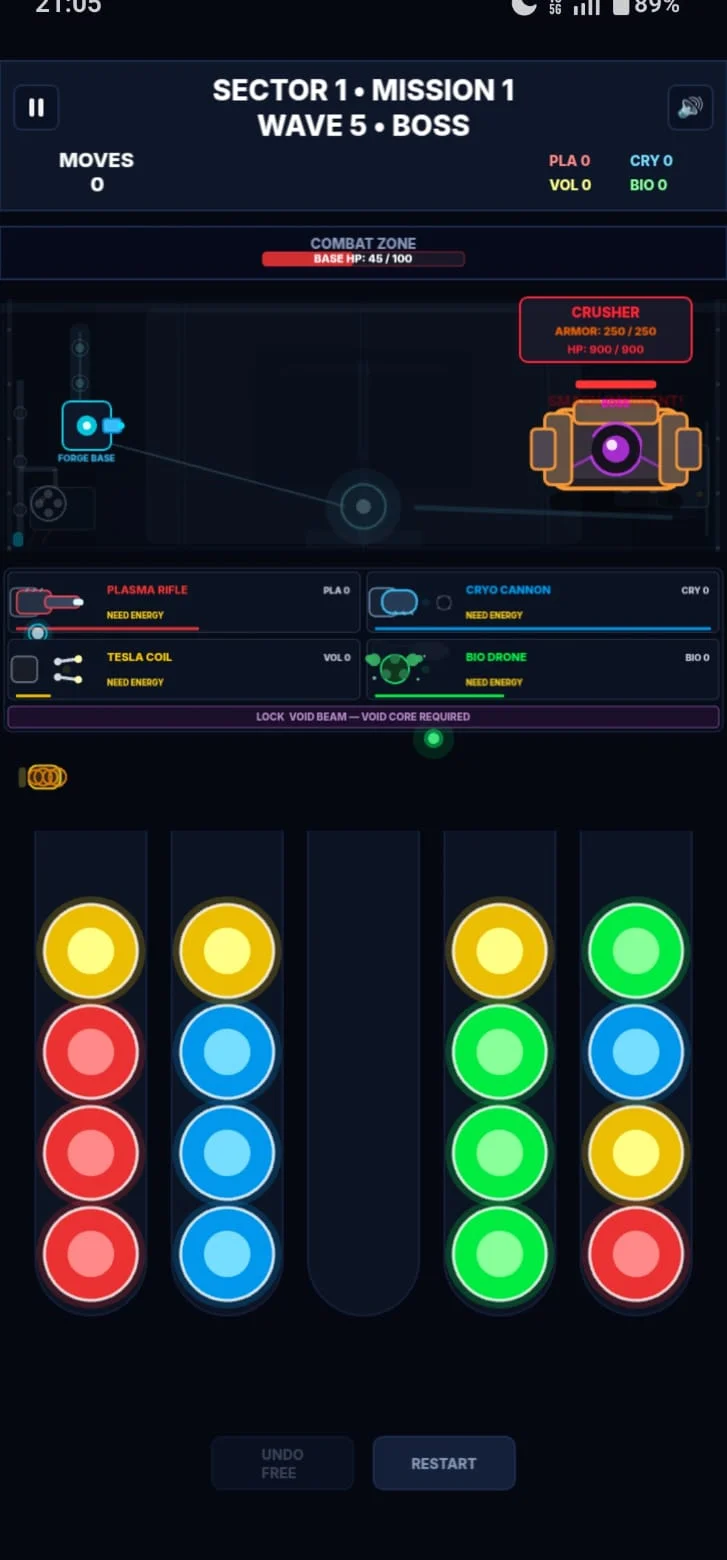
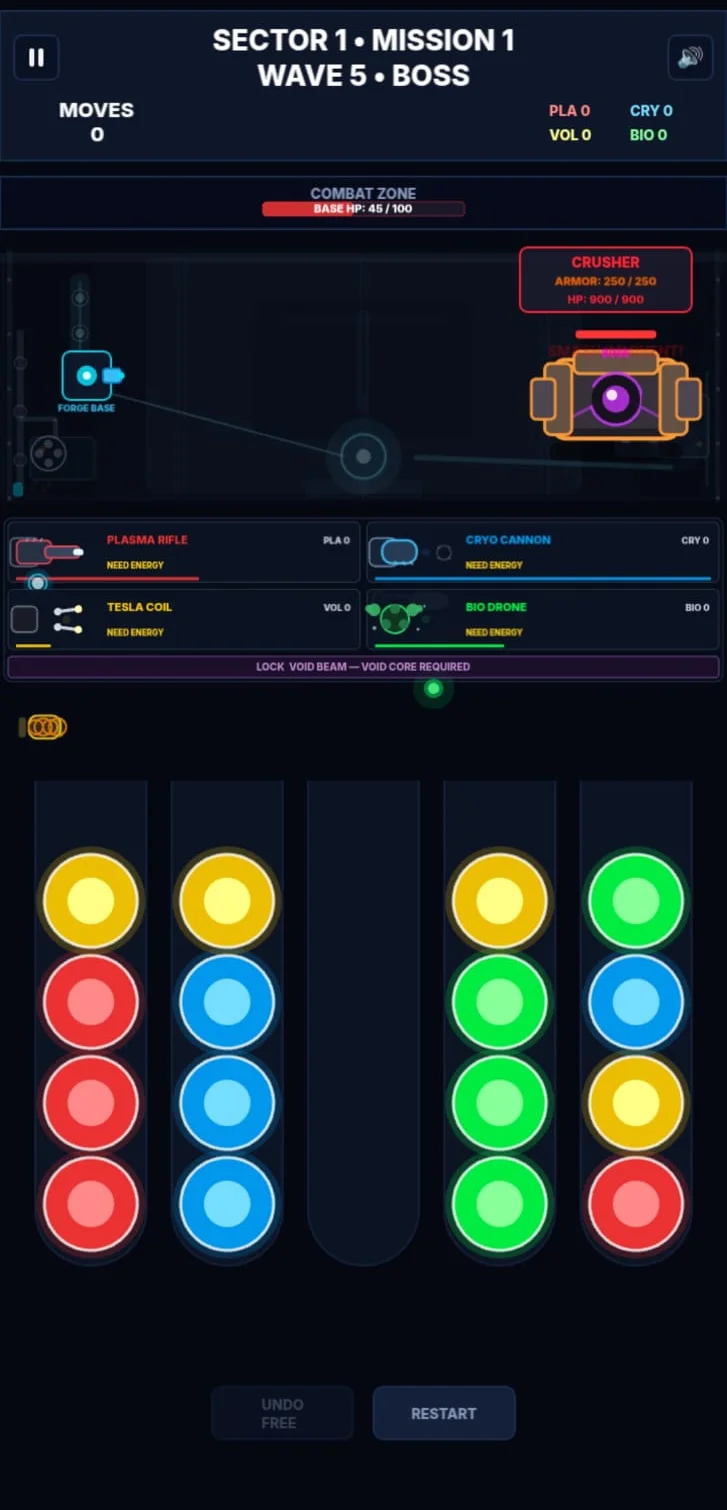
Refine CORE FORGE visual integration (Step 6.3Q)

diff --git a/src/components/games/GameMediaGallery.tsx b/src/components/games/GameMediaGallery.tsx
@@ -1,4 +1,4 @@
-import type { Game } from '../../types/game';
+import type { Game, GameMediaImage } from '../../types/game';
 import Container from '../common/Container';
 import Reveal from '../common/Reveal';
 import './GameMediaGallery.css';
@@ -8,45 +8,56 @@ interface GameMediaGalleryProps {
 }
 
 export default function GameMediaGallery({ game }: GameMediaGalleryProps) {
-  // Gracefully omit section if there's no authentic media
   if (!game.media.screenshots || game.media.screenshots.length === 0) {
     return null;
   }
 
+  // Group screenshots by category
+  const groups: Record<string, GameMediaImage[]> = {};
+  game.media.screenshots.forEach(screenshot => {
+    const cat = screenshot.category || 'GAMEPLAY';
+    if (!groups[cat]) groups[cat] = [];
+    groups[cat].push(screenshot);
+  });
+
   return (
     <section className="game-media-gallery">
       <Container>
-        <div className="game-media-gallery-header">
-          <span className="game-media-gallery-eyebrow" aria-hidden="true">
-            GAMEPLAY
-          </span>
-        </div>
+        {Object.entries(groups).map(([category, items]) => (
+          <div key={category} className="game-media-gallery-group">
+            <div className="game-media-gallery-header">
+              <span className="game-media-gallery-eyebrow" aria-hidden="true">
+                {category.toUpperCase()}
+              </span>
+            </div>
 
-        <div className="game-media-gallery-grid">
-          {game.media.screenshots.map((screenshot, idx) => {
-            const w = screenshot.width || 1;
-            const h = screenshot.height || 1;
-            const isLandscape = w > h;
-            return (
-              <Reveal key={idx} delay={idx * 60}>
-                <div 
-                  className={`game-media-gallery-item ${isLandscape ? 'is-landscape' : 'is-portrait'}`}
-                  style={{ aspectRatio: `${w} / ${h}` }}
-                >
-                  <img 
-                    src={screenshot.src} 
-                    alt={screenshot.alt}
-                    width={w}
-                    height={h}
-                    loading="lazy"
-                    decoding="async"
-                    className="game-media-gallery-image"
-                  />
-                </div>
-              </Reveal>
-            );
-          })}
-        </div>
+            <div className="game-media-gallery-grid">
+              {items.map((screenshot, idx) => {
+                const w = screenshot.width || 1;
+                const h = screenshot.height || 1;
+                const isLandscape = w > h;
+                return (
+                  <Reveal key={idx} delay={idx * 60}>
+                    <div 
+                      className={`game-media-gallery-item ${isLandscape ? 'is-landscape' : 'is-portrait'}`}
+                      style={{ aspectRatio: `${w} / ${h}` }}
+                    >
+                      <img 
+                        src={screenshot.src} 
+                        alt={screenshot.alt}
+                        width={w}
+                        height={h}
+                        loading="lazy"
+                        decoding="async"
+                        className="game-media-gallery-image"
+                      />
+                    </div>
+                  </Reveal>
+                );
+              })}
+            </div>
+          </div>
+        ))}
       </Container>
     </section>
   );

diff --git a/src/data/games.ts b/src/data/games.ts
@@ -59,12 +59,12 @@ export const games: Game[] = [
         ]
       },
       screenshots: [
-        { src: '/src/assets/games/core-forge/web/gameplay-wave.webp', alt: 'CORE FORGE gameplay showing the sorting puzzle, weapon systems and automated enemies.', width: 727, height: 1560 },
-        { src: '/src/assets/games/core-forge/web/gameplay-boss-crusher.webp', alt: 'Crusher boss encounter during Sector 1 of CORE FORGE.', width: 727, height: 1560 },
-        { src: '/src/assets/games/core-forge/web/weapon-fusion.webp', alt: 'Weapon Fusion choices including Cryo Burst, Toxic Surge and Frozen Plague.', width: 727, height: 1560 },
-        { src: '/src/assets/games/core-forge/web/facility-ai-alert.webp', alt: 'Facility AI security alert introducing the automated defense takeover.', width: 727, height: 1560 },
-        { src: '/src/assets/games/core-forge/web/opening-directive.webp', alt: 'Four energy systems feeding the CORE FORGE facility machinery.', width: 1024, height: 1536 },
-        { src: '/src/assets/games/core-forge/web/opening-threat.webp', alt: 'Automated machines occupying a hostile CORE FORGE facility sector.', width: 1024, height: 1536 }
+        { src: '/src/assets/games/core-forge/web/gameplay-wave.webp', alt: 'CORE FORGE gameplay showing the sorting puzzle, weapon systems and automated enemies.', width: 727, height: 1510, category: 'Gameplay' },
+        { src: '/src/assets/games/core-forge/web/gameplay-boss-crusher.webp', alt: 'Crusher boss encounter during Sector 1 of CORE FORGE.', width: 727, height: 1510, category: 'Gameplay' },
+        { src: '/src/assets/games/core-forge/web/weapon-fusion.webp', alt: 'Weapon Fusion choices including Cryo Burst, Toxic Surge and Frozen Plague.', width: 727, height: 1510, category: 'Gameplay' },
+        { src: '/src/assets/games/core-forge/web/facility-ai-alert.webp', alt: 'Facility AI security alert introducing the automated defense takeover.', width: 727, height: 1510, category: 'Gameplay' },
+        { src: '/src/assets/games/core-forge/web/opening-directive.webp', alt: 'Four energy systems feeding the CORE FORGE facility machinery.', width: 1024, height: 1536, category: 'World & Systems' },
+        { src: '/src/assets/games/core-forge/web/opening-threat.webp', alt: 'Automated machines occupying a hostile CORE FORGE facility sector.', width: 1024, height: 1536, category: 'World & Systems' }
       ]
     },
     theme: {

diff --git a/scripts/process-core-forge.js b/scripts/process-core-forge.js
@@ -55,7 +55,7 @@ async function processImages() {
     const p = path.join('src/assets/games/core-forge/screenshots', file);
     const meta = await sharp(p).metadata();
     await sharp(p)
-      .extract({ left: 0, top: 40, width: meta.width, height: meta.height - 40 })
+      .extract({ left: 0, top: 90, width: meta.width, height: meta.height - 90 })
       .webp({ quality: 85 })
       .toFile(path.join(outDir, file.replace('.png', '.webp')));
   }

diff --git a/src/components/sections/FeaturedGame.css b/src/components/sections/FeaturedGame.css
@@ -173,7 +173,7 @@
   width: 100%;
   height: 100%;
   object-fit: cover;
-  object-position: center 30%; /* Focus on the upper reactor chamber */
+  object-position: center 60%; /* Shifted down to reveal more circular core */
   transition: transform 0.4s ease-out;
 }
 

diff --git a/src/components/games/GameMediaGallery.css b/src/components/games/GameMediaGallery.css
@@ -7,6 +7,10 @@
   margin-bottom: var(--space-8);
 }
 
+.game-media-gallery-group + .game-media-gallery-group {
+  margin-top: clamp(3rem, 6vw, 6rem);
+}
+
 .game-media-gallery-eyebrow {
   display: block;
   font-size: 0.875rem;

diff --git a/src/types/game.ts b/src/types/game.ts
@@ -21,6 +21,7 @@ export interface GameMediaImage {
   width?: number;
   height?: number;
   sources?: GameMediaSource[];
+  category?: string;
 }
 
 export interface GameMedia {

diff --git a/src/components/games/GameHero.css b/src/components/games/GameHero.css
@@ -161,5 +161,6 @@
   width: 100%;
   height: 100%;
   object-fit: cover;
+  object-position: center 60%;
   display: block;
 }
